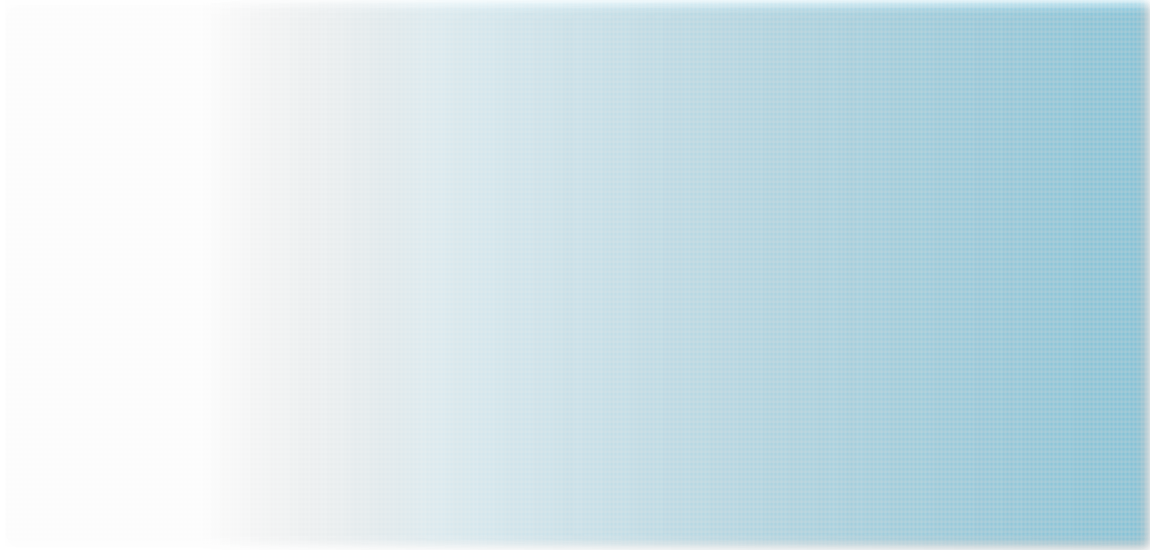
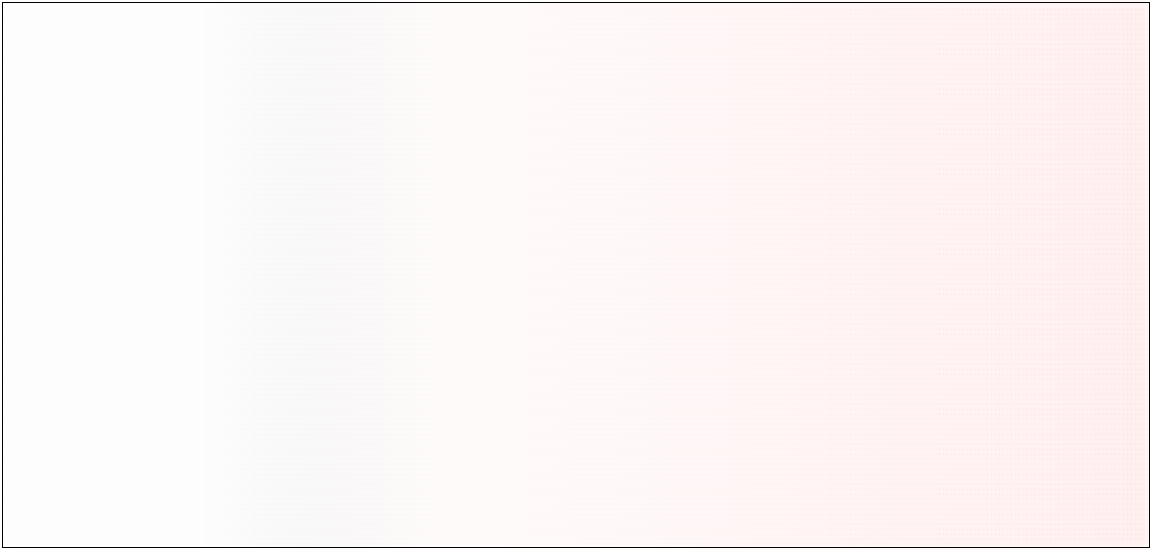
Changed layout of user page

diff --git a/public/stylesheets/tbdsupport.css b/public/stylesheets/tbdsupport.css
@@ -9,7 +9,7 @@ body {
 }
 
 a {
-	color: #4169E1; 
+	color: #8B4513; 
 	text-decoration: none;
 }
 
@@ -18,7 +18,7 @@ a:hover {
 }
 
 a:visited {
-	color: #4169E1; 
+	color: #8B4513; 
 }
 
 h1 {
@@ -30,7 +30,7 @@ h2 {
 }
 
 
-/* Header */
+/* Home Page Header */
 
 header {
 	min-width: 1250px;
@@ -50,6 +50,23 @@ table.header ul li {
 	padding: 8px;
 }
 
+/* User Header */
+
+table.user_header {
+	margin-left: 50px;
+}
+
+table.user_header tr td {
+	padding: 8px;
+	margin-right: 150px;
+}
+
+table.user_header ul li {
+	list-style: none;
+	display: inline;
+	padding: 8px;
+}
+
 /* Welcome Page */
 
 table.welcome {
@@ -58,17 +75,13 @@ table.welcome {
 	height: 550px;
 	margin-right: auto;
 	margin-left: auto;
-	border: medium solid gray; 
-	background-image: url('table_background.png');
-	border-collapse: collapse;
+	background-image: url('table_background3.png');
 }
 
 table.welcome tr td {
 	width: 33%;
 	vertical-align: top;
 	padding: 8px;
-	border-right: medium solid gray;
-	
 }
 
 table.welcome tr td img {
@@ -85,11 +98,6 @@ table.welcome p {
 	margin-left: 10px;
 }
 
-table.welcome h1 {
-	padding-top: 10px;
-	text-align: center;
-}
-
 table.welcome h2 {
 	margin-left: 10px;
 }
@@ -101,22 +109,18 @@ table.about {
 	width: 90%;
 	height: 550px;
 	margin-right: auto;
-	margin-left: auto;
-	border: medium solid gray; 
-	background-image: url('table_background.png');
-	border-collapse: collapse;
+	margin-left: auto; 
+	background-image: url('table_background3.png');
 }
 
 table.about tr td {
 	width: 33%;
 	vertical-align: top;
 	padding: 8px;
-	border-right: medium solid gray;
-	
 }
 
 table.about tr td img {
-	margin-top: 15px;
+	margin-top: 10px;
 	padding-left: 60px;
 }
 
@@ -128,13 +132,24 @@ table.about p {
 	margin-left: 10px;
 }
 
-table.about h1 {
-	padding-top: 10px;
-	text-align: center;
-}
-
 table.about h2 {
 	margin-left: 10px;
+}
+
+/* Bottom Links */
+
+div.links {
+	padding: 2px;
+	width: 27%;
+	margin-left: auto;
+	margin-right: auto;
+	border-bottom: thin solid #8B4513;
+}
+
+div.links ul li {
+	list-style: none;
+	display: inline;
+	padding: 8px;
 }
 
 /* Footer */

diff --git a/config/routes.rb b/config/routes.rb
@@ -6,6 +6,10 @@ TbdsupportApp::Application.routes.draw do
   resources :events
   resources :users
   
+  namespace :user do
+    root :to => "users#show"
+  end
+  
   match '/about' => 'pages#about'
   match '/location' => 'pages#location'
   match '/service' => 'pages#service'

diff --git a/app/controllers/users_controller.rb b/app/controllers/users_controller.rb
@@ -3,7 +3,7 @@ class UsersController < ApplicationController
   
   #The show page is the user home page after a successful login
   def show
-    @user = User.find(params[:id])
+    @user = current_user
     @title = @user.email
   end
 end

diff --git a/app/controllers/application_controller.rb b/app/controllers/application_controller.rb
@@ -1,3 +1,8 @@
 class ApplicationController < ActionController::Base
   protect_from_forgery
+  
+  # Overwriting the sign_out redirect path method
+  def after_sign_out_path_for(resource_or_scope)
+    root_path
+  end
 end
